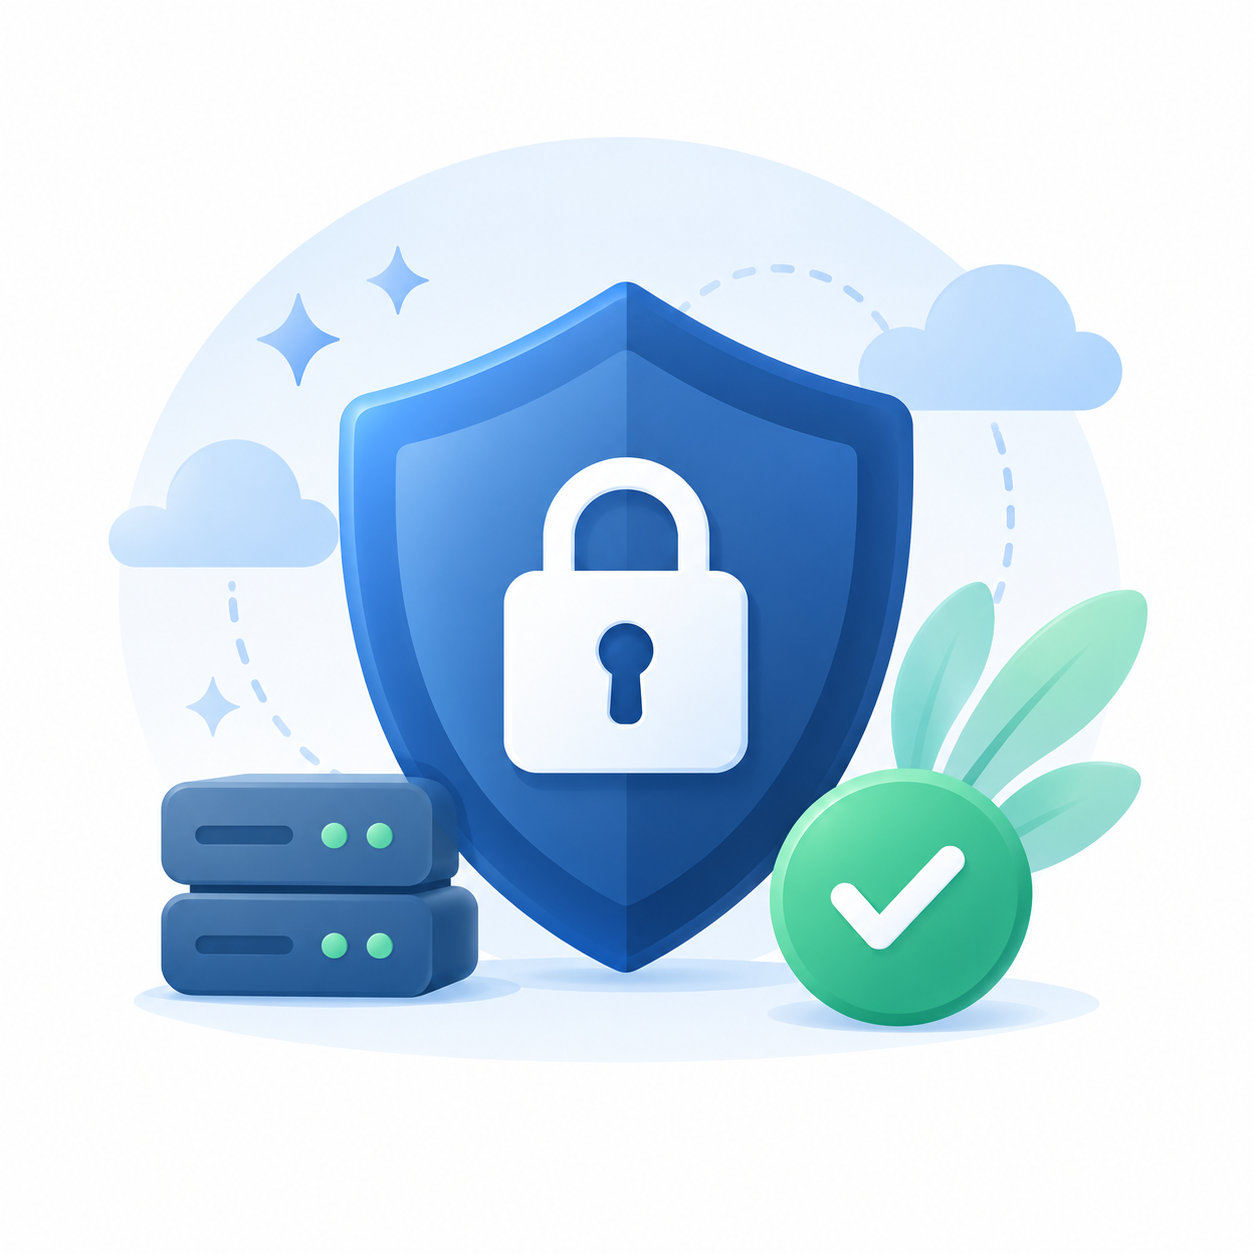
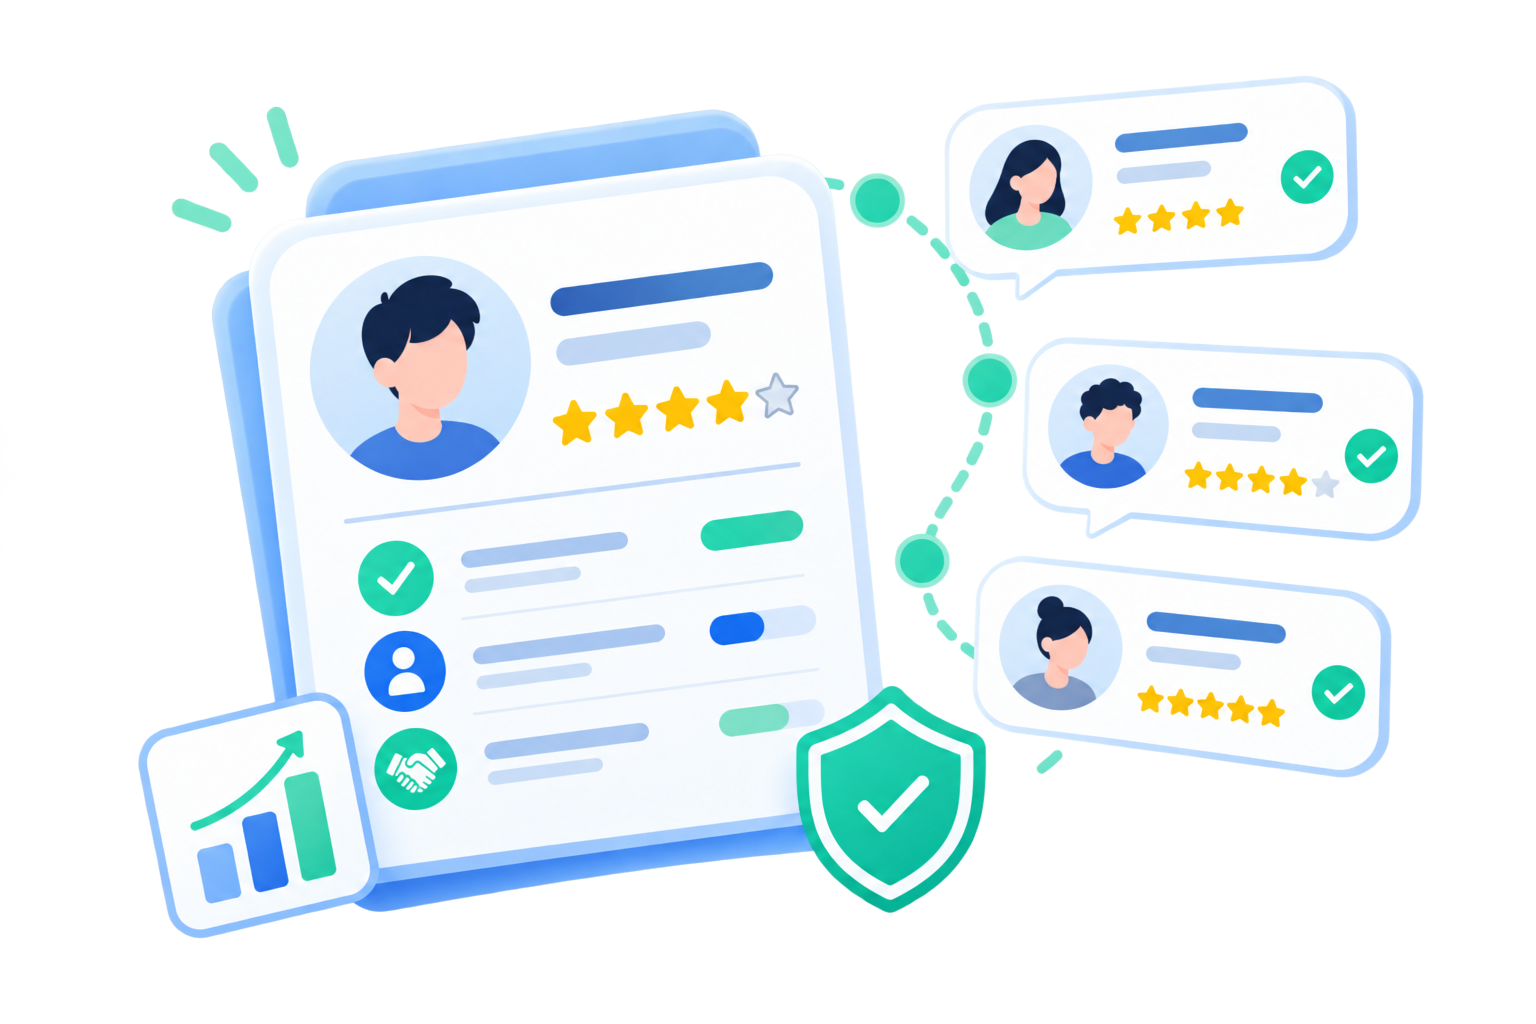
style: 更換首頁「為什麼選擇 PartyMatch？」區塊圖片並調整尺寸
真實信用機制／專屬PM幣支付／站內即時通訊三個分頁改用新圖（Security/UniquePMCoin/Message），三張圖比例一致，改用符合圖片比例的容器取代正方形容器避免留白造成大小不一，並縮減圖片與標題間距。

diff --git a/src/features/home/components/WhyUs.jsx b/src/features/home/components/WhyUs.jsx
@@ -54,8 +54,12 @@ export default function WhyUs() {
       <div className="mt-8">
         <WhyUsTabs items={HOME_WHY_US_HIGHLIGHTS} activeId={activeId} onChange={setActiveId} />
 
-        <div key={activeId} className="animate-fade-in-up pt-10">
-          <div className="mx-auto flex h-56 w-56 items-center justify-center sm:h-64 sm:w-64">
+        <div key={activeId} className="animate-fade-in-up pt-6">
+          <div
+            className={`mx-auto flex items-center justify-center ${
+              active.image ? 'aspect-[3/2] w-72 sm:w-80' : 'h-56 w-56 sm:h-64 sm:w-64'
+            }`}
+          >
             {active.image ? (
               <img src={active.image} alt="" className="h-full w-full object-contain" />
             ) : (
@@ -65,7 +69,7 @@ export default function WhyUs() {
             )}
           </div>
 
-          <p className="mx-auto mt-6 max-w-md text-center font-extrabold text-ink">{active.title}</p>
+          <p className="mx-auto mt-4 max-w-md text-center font-extrabold text-ink">{active.title}</p>
           <p className="mx-auto mt-2 max-w-md text-left text-sm leading-relaxed text-ink-3">{active.desc}</p>
         </div>
       </div>

diff --git a/src/features/home/data/homeContent.js b/src/features/home/data/homeContent.js
@@ -1,8 +1,6 @@
-import {
-  MessageCircle,
-} from 'lucide-react'
-import creditPhoto from '../../../assets/Credit.png'
-import pmCoinPhoto from '../../../assets/PMCoin.svg'
+import creditPhoto from '../../../assets/Security.png'
+import pmCoinPhoto from '../../../assets/UniquePMCoin.png'
+import messagePhoto from '../../../assets/Message.png'
 import studentsPhoto from '../../../assets/Students.png'
 import couplesPhoto from '../../../assets/Couples.png'
 import friendsPhoto from '../../../assets/Friends.png'
@@ -100,7 +98,7 @@ export const HOME_WHY_US_HIGHLIGHTS = [
   {
     id: 'messaging',
     tab: '站內即時通訊',
-    icon: MessageCircle,
+    image: messagePhoto,
     title: '站內即時通訊',
     desc: '免交換聯絡方式即可直接傳訊：申請加入前可先私訊團主提問，合購成立後系統自動建立群組聊天室，方案協調、帳號資訊、問題回報都能在同一個地方溝通，通知中心也會即時提醒最新進度，所有紀錄完整留在站內不遺失。',
   },
